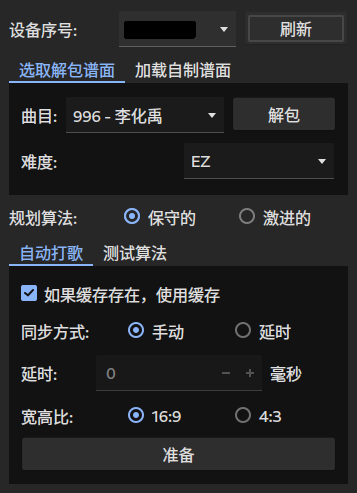
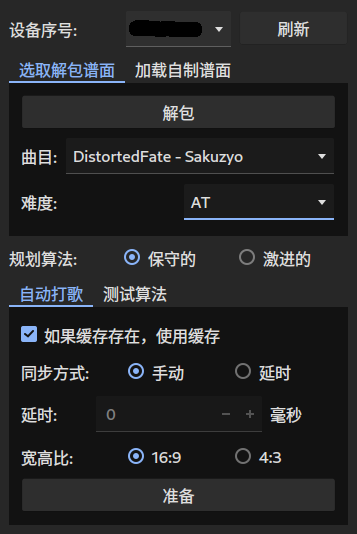
v0.7

Changed region(s): [[0.0308, 0.0304, 0.9552, 0.7911], [0.0616, 0.6389, 0.9244, 0.9432], [0.6779, 0.0304, 0.986, 0.0913]]

diff --git a/main.py b/main.py
@@ -6,7 +6,6 @@ import zipfile
 from pathlib import Path
 from PyQt5.QtWidgets import (
     QApplication,
-    QMainWindow,
     QWidget,
     QHBoxLayout,
     QVBoxLayout,
@@ -24,7 +23,7 @@ from PyQt5.QtWidgets import (
     QProgressDialog,
     QMessageBox,
 )
-from PyQt5.QtCore import Qt, QThread, pyqtSignal, QObject
+from PyQt5.QtCore import Qt, QThread, pyqtSignal, QObject, QSettings
 
 from rich.console import Console
 
@@ -40,7 +39,7 @@ from pgr import PgrChart
 from pec import PecChart
 from rpe import RpeChart
 
-PHISAP_VERSION = '0.6'
+PHISAP_VERSION = '0.7'
 
 
 class ExtractPackageWorker(QThread):
@@ -185,6 +184,8 @@ class MainWindow(QWidget):
     testButton: QPushButton
     lastDelayValue: int
 
+    settings: QSettings
+
     def __init__(self, parent: QWidget | None = None) -> None:
         super().__init__(parent)
         self.console = Console()
@@ -218,11 +219,11 @@ class MainWindow(QWidget):
         self.songIdSelector = QComboBox()
         self.extractButton = QPushButton(text=self.tr('Extract'))
         self.extractButton.clicked.connect(self.extractPackage)
+        selectExtractedViewLayout.addWidget(self.extractButton)
         line1 = QHBoxLayout()
         selectExtractedViewLayout.addLayout(line1)
         line1.addWidget(QLabel(text=self.tr('Song:')))
         line1.addWidget(self.songIdSelector)
-        line1.addWidget(self.extractButton)
         line2 = QHBoxLayout()
         selectExtractedViewLayout.addLayout(line2)
         self.difficultySelector = QComboBox()
@@ -317,6 +318,37 @@ class MainWindow(QWidget):
         self.loadSongs()
         self.refreshDevices()
 
+        self.settings = QSettings('./.settings.ini', QSettings.Format.IniFormat)
+        self.loadSettings()
+
+    def loadSettings(self) -> None:
+        if self.songIdSelector.count() > 1:
+            self.songIdSelector.setCurrentText(self.settings.value('songId', self.songIdSelector.currentText(), str))
+        if self.difficultySelector.count() > 1:
+            self.difficultySelector.setCurrentText(
+                self.settings.value('difficulty', self.difficultySelector.currentText(), str)
+            )
+        self.algorithmSelector.button(self.settings.value('algorithm', 0, int)).setChecked(True)
+        self.customChartPath.setText(self.settings.value('customChartPath', '', str))
+        self.preferCache.setChecked(self.settings.value('preferCache', True, bool))
+        self.syncModeSelector.button(self.settings.value('syncMode', 0, int)).setChecked(True)
+        self.delayInput.setValue(self.settings.value('delay', 0, int))
+        self.aspectRatioSelector.button(self.settings.value('aspectRatio', 0, int)).setChecked(True)
+        self.saveResult.setChecked(self.settings.value('saveCache', False, bool))
+
+    def saveSettings(self) -> None:
+        if self.songIdSelector.count() > 1:
+            self.settings.setValue('songId', self.songIdSelector.currentText())
+        if self.difficultySelector.count() > 1:
+            self.settings.setValue('difficulty', self.difficultySelector.currentText())
+        self.settings.setValue('algorithm', self.algorithmSelector.checkedId())
+        self.settings.setValue('customChartPath', self.customChartPath.text())
+        self.settings.setValue('preferCache', self.preferCache.isChecked())
+        self.settings.setValue('syncMode', self.syncModeSelector.checkedId())
+        self.settings.setValue('delay', self.delayInput.value())
+        self.settings.setValue('aspectRatio', self.aspectRatioSelector.checkedId())
+        self.settings.setValue('saveCache', self.saveResult.isChecked())
+
     def askCustomChart(self) -> None:
         filepath, sel = QFileDialog.getOpenFileName(
             self, self.tr('Choose custom chart file'), '.', self.tr('JSON Charts (*.json);;PEC Charts (*.pec)')
@@ -406,6 +438,7 @@ class MainWindow(QWidget):
         return content, chart
 
     def process(self) -> None:
+        self.saveSettings()
         self.testButton.setDisabled(True)
         try:
             algoIndex = self.algorithmSelector.checkedId()
@@ -441,7 +474,7 @@ class MainWindow(QWidget):
                     self.mainModeSelectTabs.insertTab(0, self.autoplayView, self.tr('Autoplay'))
         except Exception:
             pass
-    
+
     def onSelectedDeviceChanged(self, serial: str) -> None:
         if not serial:
             return
@@ -451,16 +484,19 @@ class MainWindow(QWidget):
 
         if serial == self.tr('No device found'):
             return
-        
+
         self.controller = DeviceController(serial)
-        
 
     def autoplay(self) -> None:
+        self.saveSettings()
         content, chart = self.loadChart()
         algoIndex = self.algorithmSelector.checkedId()
         ans: dict
         screen: ScreenUtil
         ansJson: str | None = None
+
+        if self.preferCache.isChecked():
+            ansJson = self.cacheManager.find_cache_for_content(content)
 
         if ansJson is not None:
             screen, ans = load_from_json(ansJson)

diff --git a/README.md b/README.md
@@ -204,6 +204,11 @@ phisap 并没有对课题模式做特殊的支持，将来也许会有
 
 ## 更新日志
 
+### (2023/07/08) v0.7
+- 自动加载/保存设置
+  - 配置文件由原来的`cache`更改为`.settings.ini`
+- 微调布局
+
 ### (2023/07/08) v0.6
 
 - 替换 GUI 库为 PyQt5
